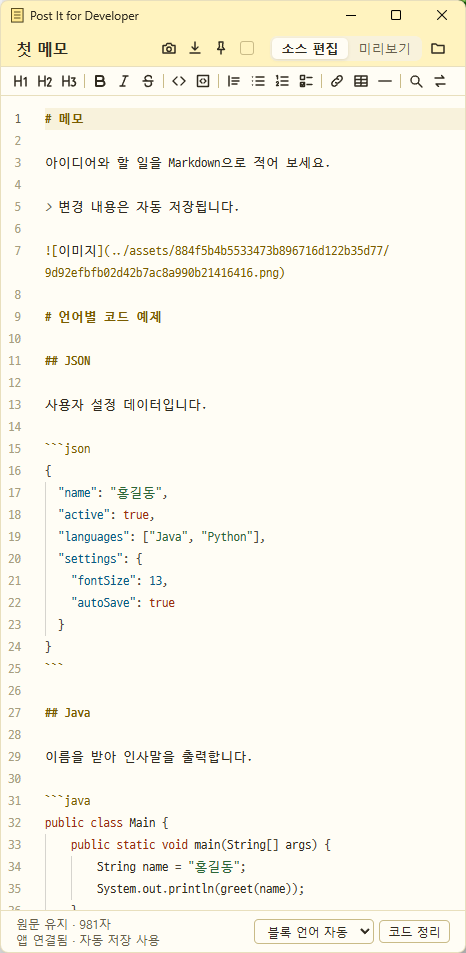
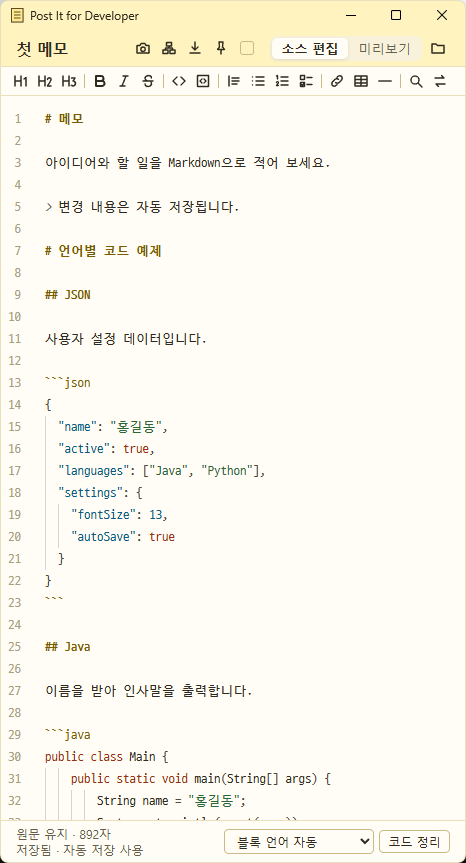
docs: update README screenshots for the new tools

diff --git a/README.md b/README.md
@@ -3,9 +3,22 @@
 개발자를 위한 Windows용 Markdown 포스트잇 메모앱입니다. 훈민정음의 부속물인 훈민메모패드의 사용성을 제공하면서 개발자를 위한 Markdown 지원 그리고 Snagit의 Object Capture 기능으로 바로 캡춰하고 파일로 저장하고, MD 파일에 링크까지 걸어주는 메모앱입니다. WPF와 WebView2로 만들었고, 메모를 개별 Markdown 파일로 저장하며 Monaco 편집기를 사용합니다.
 
 <p align="center">
-  <img src="docs/images/source-editing.png" alt="소스 편집 화면" width="45%">
-  <img src="docs/images/preview.png" alt="미리보기 화면" width="45%">
+  <img src="docs/images/source-editing.png" alt="메모 소스 편집" width="32%">
+  <img src="docs/images/preview.png" alt="메모 미리보기" width="32%">
+  <img src="docs/images/tray-menu.png" alt="트레이 메뉴" width="28%">
 </p>
+
+| 마인드맵 | 달력 |
+| --- | --- |
+| <img src="docs/images/mindmap.png" alt="마인드맵"> | <img src="docs/images/calendar.png" alt="달력"> |
+
+| 할 일 | 소스코드 포맷터 |
+| --- | --- |
+| <img src="docs/images/todo.png" alt="할 일"> | <img src="docs/images/formatter.png" alt="소스코드 포맷터"> |
+
+**캡처 주석**
+
+<img src="docs/images/capture-annotation.png" alt="캡처 주석" width="70%">
 
 ## 기능
 
